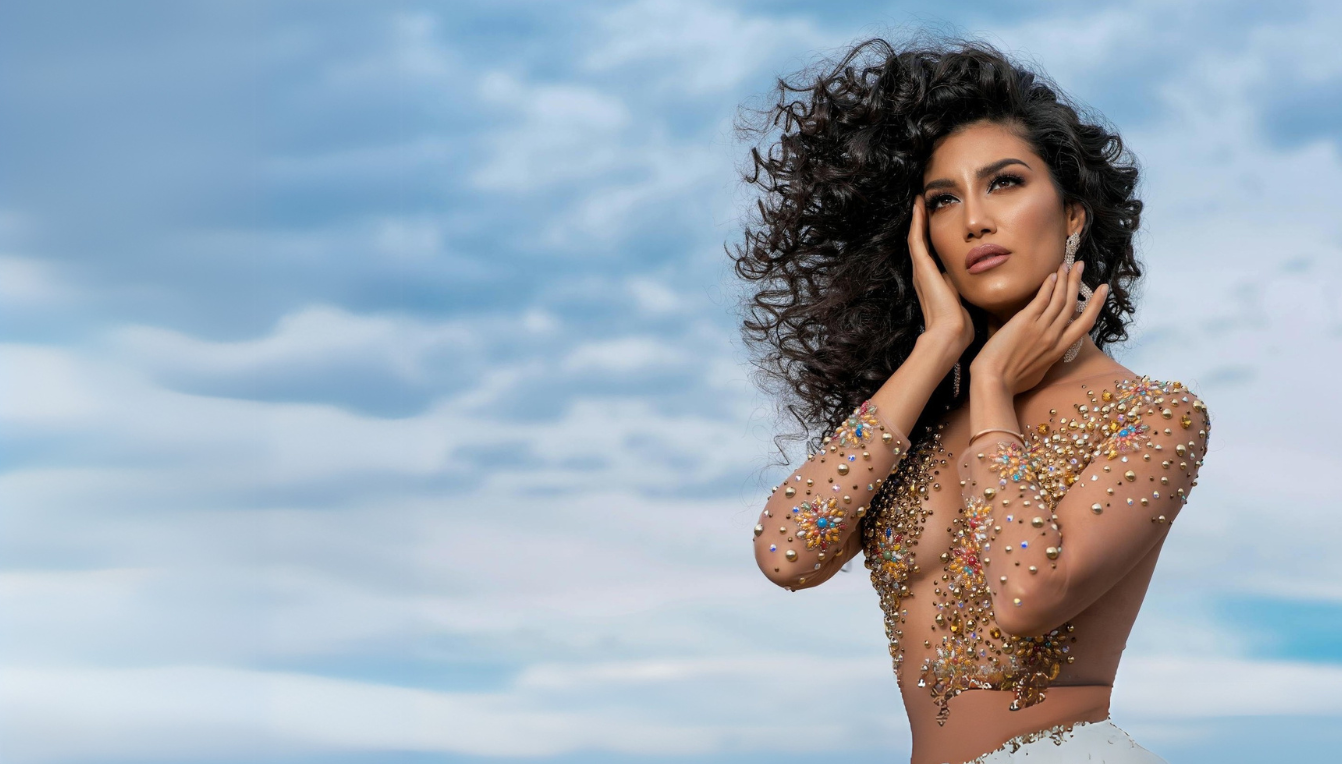
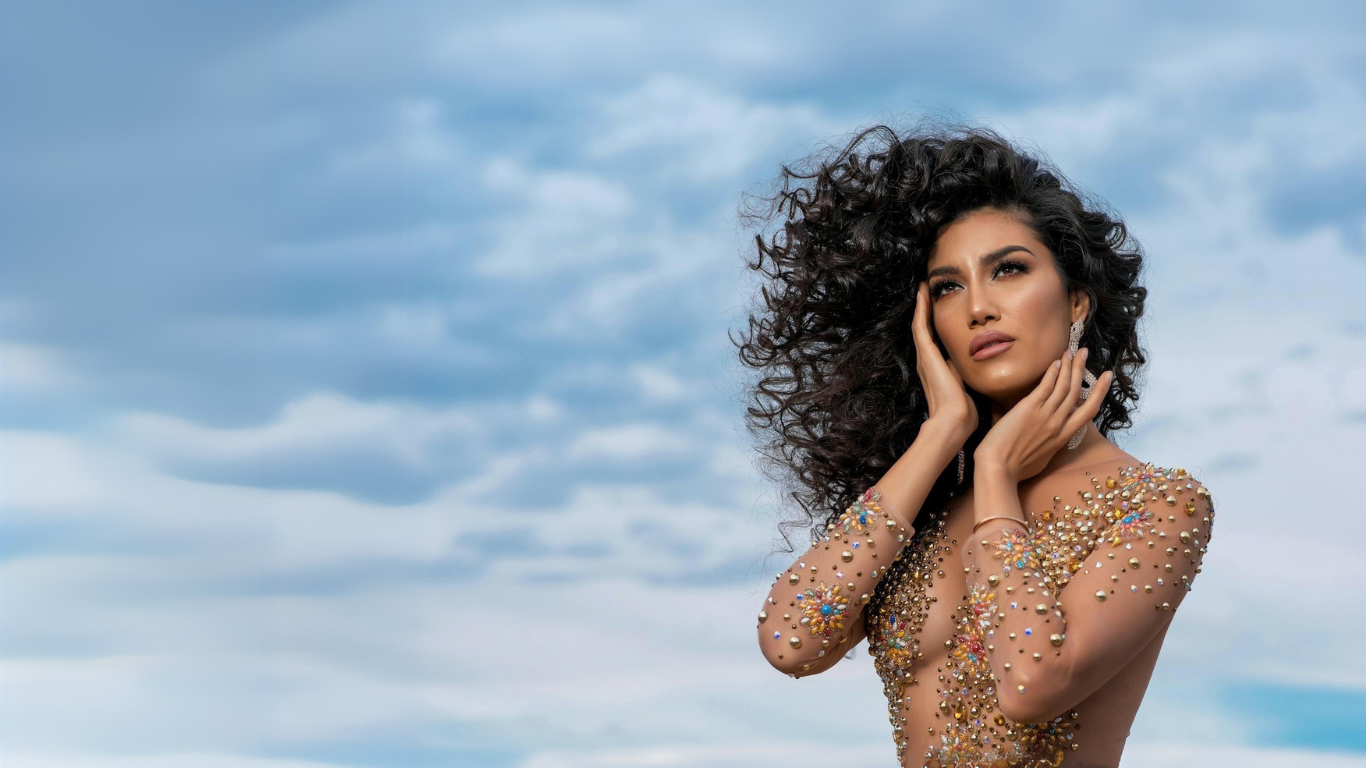
pagaaaaaaaaaaaaaaaaaaaaallllllllllll talent wale

diff --git a/public/user-assets/css/custom.css b/public/user-assets/css/custom.css
@@ -531,6 +531,10 @@ section.rightsec {
     padding: 10px;
     border-radius: 20px;
 }
+.talentimg img{
+   height: 80vh !important;
+
+}
 /* talent sec end */
 
 

diff --git a/resources/views/users/pages/our-jobs.blade.php b/resources/views/users/pages/our-jobs.blade.php
@@ -13,15 +13,15 @@
 
     <section class="innerpages">
         <div class="container">
-            <div class="col-12 col-sm-12 col-md-12 col-lg-12 col-xl-12 col-xxl-12">
+           
+            </div>
+        </div>
+    </section>
+    <div class="col-12 col-sm-12 col-md-12 col-lg-12 col-xl-12 mt-3 col-xxl-12">
                 <div class="innertext">
                     <h1>OUR <span> JOBS</span></h1>
 
                 </div>
-            </div>
-        </div>
-    </section>
-
 <style>
 .hover-text:hover {
     color: #D81F26;
@@ -57,31 +57,31 @@
                <div class="featurelist" style="border-bottom: 0 !important;">
             <ul class="d-flex flex-wrap justify-content-center align-items-center list-unstyled mt-4">
                     <li class="col-md-1 col-sm-2 text-center">
-                        <a href="{{ route('featured-models.get', ['section' => 'presenters_emcees']) }}" data-target="tab7" class="d-flex flex-column align-items-center">
+                        <a href="{{ route('modeling-agency.get', ['section' => 'presenters_emcees']) }}"  data-target="tab7" class="d-flex flex-column align-items-center">
                             <img src="{{ url('user-assets/icons/presenter.png') }}" alt="Presenters Icon" class="icon img-fluid" style="width: 75px; height: 75px;">
                             <p class="hover-text">PRESENTERS & EMCEES</p>
                         </a>
                     </li>
                     <li class="col-md-2  col-sm-1 text-center">
-                        <a href="{{ route('featured-models.get', ['section' => 'event_staff_ushers']) }}" data-target="tab8" class="d-flex flex-column align-items-center">
+                        <a href="{{ route('modeling-agency.get', ['section' => 'event_staff_ushers']) }}" data-target="tab8" class="d-flex flex-column align-items-center">
                             <img src="{{ url('user-assets/icons/eventstaff.png') }}" alt="Event Staff Icon" class="icon img-fluid" style="width: 75px; height: 75px;">
                             <p class="hover-text ">EVENT STAFF & <br/> USHERS</p>
                         </a>
                     </li>
                     <li class="col-md-2  col-sm-1 text-center">
-                        <a href="{{ route('featured-models.get', ['section' => 'makeup_hair_stylist']) }}" data-target="tab10" class="d-flex flex-column align-items-center">
+                        <a href="{{ route('modeling-agency.get', ['section' => 'makeup_hair_stylist']) }}" data-target="tab10" class="d-flex flex-column align-items-center">
                             <img src="{{ url('user-assets/icons/makeup.png') }}" alt="Makeup Icon" class="icon img-fluid" style="width: 75px; height: 75px;">
                             <p class="hover-text">MAKEUP, HAIR & <br/> FASHION</p>
                         </a>
                     </li>
                     <li class="col-md-2 col-sm-1 text-center">
-                        <a href="{{ route('featured-models.get', ['section' => 'photographers_videographers']) }}" data-target="tab9" class="d-flex flex-column align-items-center">
+                        <a href="{{ route('modeling-agency.get', ['section' => 'photographers_videographers']) }}" data-target="tab9" class="d-flex flex-column align-items-center">
                             <img src="{{ url('user-assets/icons/photo.png') }}" alt="Photographers Icon" class="icon img-fluid" style="width: 75px; height: 75px;">
                             <p class="hover-text">PHOTOGRAPHY & VIDEOGRAPHY</p>
                         </a>
                     </li>
                     <li class="col-md-2 col-sm-1 text-center">
-                        <a href="{{ route('featured-models.get', ['section' => 'dancers_performers']) }}" data-target="tab3" class="d-flex flex-column align-items-center">
+                        <a href="{{ route('modeling-agency.get', ['section' => 'dancers_performers']) }}" data-target="tab3" class="d-flex flex-column align-items-center">
                             <img src="{{ url('user-assets/icons/dancer.png') }}" alt="Dancers Icon" class="icon img-fluid" style="width: 75px; height: 75px;">
                             <p class="hover-text">DANCERS &  <br/> PERFORMERS</p>
                         </a>
@@ -91,31 +91,31 @@
               <!-- Row 1 -->
               <ul class="d-flex flex-wrap justify-content-center align-items-center list-unstyled">
                     <li class="col-md-1 col-sm-1 text-center">
-                        <a href="{{ route('featured-models.get', ['section' => 'actors']) }}" class="active" data-target="tab1" class="d-flex flex-column align-items-center">
+                        <a href="{{ route('modeling-agency.get', ['section' => 'actors']) }}" class="active" data-target="tab1" class="d-flex flex-column align-items-center">
                             <img src="{{ url('user-assets/icons/actor.png') }}" alt="Actors Icon" class="icon img-fluid" style="width: 75px; height: 75px;">
                             <p class="hover-text">ACTORS</p>
                         </a>
                     </li>
                     <li class="col-md-2  col-sm-1 text-center">
-                        <a href="{{ route('featured-models.get', ['section' => 'models']) }}" data-target="tab2" class="d-flex flex-column align-items-center">
+                        <a href="{{ route('modeling-agency.get', ['section' => 'models']) }}" data-target="tab2" class="d-flex flex-column align-items-center">
                             <img src="{{ url('user-assets/icons/model.png') }}" alt="Models Icon" class="icon img-fluid" style="width: 75px; height: 75px;">
                             <p class="hover-text">MODELS</p>
                         </a>
                     </li>
                     <li class="col-md-2 col-sm-1 text-center">
-                        <a href="{{ route('featured-models.get', ['section' => 'musicians']) }}" data-target="tab5" class="d-flex flex-column align-items-center">
+                        <a href="{{ route('modeling-agency.get', ['section' => 'musicians']) }}" data-target="tab5" class="d-flex flex-column align-items-center">
                             <img src="{{ url('user-assets/icons/musician.png') }}" alt="Musicians Icon" class="icon img-fluid" style="width: 75px; height: 75px;">
                             <p class="hover-text">MUSICIANS</p>
                         </a>
                     </li>
                     <li class="col-md-2 col-sm-1 text-center">
-                        <a href="{{ route('featured-models.get', ['section' => 'film_crew']) }}" data-target="tab4" class="d-flex flex-column align-items-center">
+                        <a href="{{ route('modeling-agency.get', ['section' => 'film_crew']) }}" data-target="tab4" class="d-flex flex-column align-items-center">
                             <img src="{{ url('user-assets/icons/film.png') }}" alt="Film Crew Icon" class="icon img-fluid" style="width: 75px; height: 75px;">
                             <p class="hover-text">FILM CREW</p>
                         </a>
                     </li>
                     <li class="col-md-2 col-sm-1 text-center">
-                        <a href="{{ route('featured-models.get', ['section' => 'influencers']) }}" class="d-flex flex-column align-items-center">
+                        <a href="{{ route('modeling-agency.get', ['section' => 'influencers']) }}" class="d-flex flex-column align-items-center">
                             <img src="{{ url('user-assets/icons/influencer.png') }}" alt="Influencers Icon" class="icon img-fluid" style="width: 75px; height: 75px;">
                             <p class="hover-text">INFLUENCERS</p>
                         </a>

diff --git a/resources/views/users/pages/our-talent.blade.php b/resources/views/users/pages/our-talent.blade.php
@@ -450,6 +450,14 @@
         ul{
             list-style: none; /* Removes bullets */
         }
+        .modalagencysec {
+    height: 107vh; /* Each section takes the full viewport height */
+    overflow: hidden; /* Prevent overflow issues within sections */
+    display: flex;
+    align-items: center; /* Center align content vertically */
+    justify-content: center; /* Center align content horizontally */
+}
+
     </style>
 <div  id="scrollable-sections">
 
@@ -963,61 +971,81 @@
 </section>
 </div>
 <script>
-   window.addEventListener("load", function () {
+ window.addEventListener("load", function () {
     const sections = document.querySelectorAll(".modalagencysec");
-    let currentSectionIndex = 0;
+    let currentSectionIndex = 0; // Start at the topmost section
+    let isScrolling = false; // Prevent rapid-fire scrolling
 
-    // Scroll to the first section on page load
-    sections[currentSectionIndex].scrollIntoView({
-        behavior: "smooth",
-        block: "start"
-    });
+    // Helper function to scroll to the current section
+    const scrollToSection = (index) => {
+        if (index < 0 || index >= sections.length) return; // Prevent out-of-bound index
+        sections[index].scrollIntoView({
+            behavior: "smooth",
+            block: "start"
+        });
+    };
 
-    let isScrolling = false;
-    window.addEventListener("wheel", function (event) {
-        if (isScrolling) return;
+    // Function to handle scrolling logic
+    const handleScroll = (delta) => {
+        if (isScrolling) return; // Prevent multiple simultaneous scrolls
 
         isScrolling = true;
-        if (event.deltaY > 0 && currentSectionIndex < sections.length - 1) {
+
+        // Determine the direction and adjust the current section index
+        if (delta > 0 && currentSectionIndex < sections.length - 1) {
             currentSectionIndex++;
-        } else if (event.deltaY < 0 && currentSectionIndex > 0) {
+        } else if (delta < 0 && currentSectionIndex > 0) {
             currentSectionIndex--;
         }
 
-        sections[currentSectionIndex].scrollIntoView({
-            behavior: "smooth",
-            block: "start"
-        });
+        // Scroll to the selected section
+        scrollToSection(currentSectionIndex);
 
+        // Allow scrolling again after smooth scroll completes
         setTimeout(() => {
             isScrolling = false;
-        }, 800);
+        }, 500); // Reduced timeout for faster scroll
+    };
+
+    // Mouse Wheel Scrolling
+    window.addEventListener("wheel", (event) => {
+        handleScroll(event.deltaY);
     });
 
-    window.addEventListener("keydown", function (event) {
-        if (isScrolling) return;
-
-        if (event.key === "ArrowDown" && currentSectionIndex < sections.length - 1) {
-            currentSectionIndex++;
-        } else if (event.key === "ArrowUp" && currentSectionIndex > 0) {
-            currentSectionIndex--;
-        }
-
-        sections[currentSectionIndex].scrollIntoView({
-            behavior: "smooth",
-            block: "start"
-        });
-
-        if (event.key === "ArrowDown" || event.key === "ArrowUp") {
+    // Keyboard Arrow Keys
+    window.addEventListener("keydown", (event) => {
+        if (["ArrowDown", "ArrowUp"].includes(event.key)) {
             event.preventDefault();
+            handleScroll(event.key === "ArrowDown" ? 1 : -1);
         }
+    });
 
-        isScrolling = true;
-        setTimeout(() => {
-            isScrolling = false;
-        }, 800);
+    // Touch Gestures for Mobile
+    let touchStartY = 0;
+    window.addEventListener("touchstart", (event) => {
+        touchStartY = event.touches[0].clientY;
+    });
+
+    window.addEventListener("touchend", (event) => {
+        const touchEndY = event.changedTouches[0].clientY;
+        const delta = touchStartY - touchEndY;
+        handleScroll(delta);
+    });
+
+    // Scroll to the first section on load
+    scrollToSection(currentSectionIndex);
+
+    // Prevent white space on excessive scrolling
+    window.addEventListener("scroll", () => {
+        const scrollTop = document.documentElement.scrollTop || document.body.scrollTop;
+        const maxScrollTop = document.documentElement.scrollHeight - window.innerHeight;
+        if (scrollTop < 0 || scrollTop > maxScrollTop) {
+            scrollToSection(currentSectionIndex);
+        }
     });
 });
+
+
 
 </script>
 

diff --git a/resources/views/users/pages/index.blade.php b/resources/views/users/pages/index.blade.php
@@ -596,7 +596,7 @@
                 </div>
                 <div class=" d-flex justify-content-center">
                     <!-- Thumbnail Image -->
-                    <img id="imageThumbnailRight" src="{{ url('user-assets') }}/images/talentbanner.png" class="img-fluid" alt="Talent Banner">
+                    <img id="imageThumbnailRight"  style="width: 100%; height: 80vh"  src="https://img.youtube.com/vi/VXZgS20jvvA/hqdefault.jpg"  class="img-fluid" alt="Talent Banner">
                     <!-- Play button (click to show video) -->
                     <a href="javascript:void(0);" id="playButtonRight">
                         <i class="fa-regular fa-circle-play"></i>

diff --git a/resources/views/users/pages/services.blade.php b/resources/views/users/pages/services.blade.php
@@ -125,14 +125,14 @@
 
     <section class="innerpages">
         <div class="container">
-            <div class="col-12 col-sm-12 col-md-12 col-lg-12 col-xl-12 col-xxl-12">
+            
+        </div>
+    </section>
+    <div class="col-12 col-sm-12 col-md-12 col-lg-12 col-xl-12 col-xxl-12  mt-3 ">
                 <div class="innertext">
                     <h1>Our <span>Activities</span></h1>
                 </div>
             </div>
-        </div>
-    </section>
-
     <section class="servicessec">
         <div class="container">
             <div class="row">

diff --git a/resources/views/users/pages/about.blade.php b/resources/views/users/pages/about.blade.php
@@ -20,7 +20,7 @@
             <div class="row justify-content-center">
             <div class="talentimg">
     <!-- Thumbnail Image -->
-    <img id="imageThumbnail" src="{{ url('user-assets') }}/images/about_img.png" class="img-fluid" alt="Thumbnail">
+    <img id="imageThumbnail"   src="https://img.youtube.com/vi/qmpkCshcRlY/hqdefault.jpg"  class="img-fluid" alt="Thumbnail">
 
     <!-- Play button (click to show video) -->
     <a href="javascript:void(0);" id="playButton">
